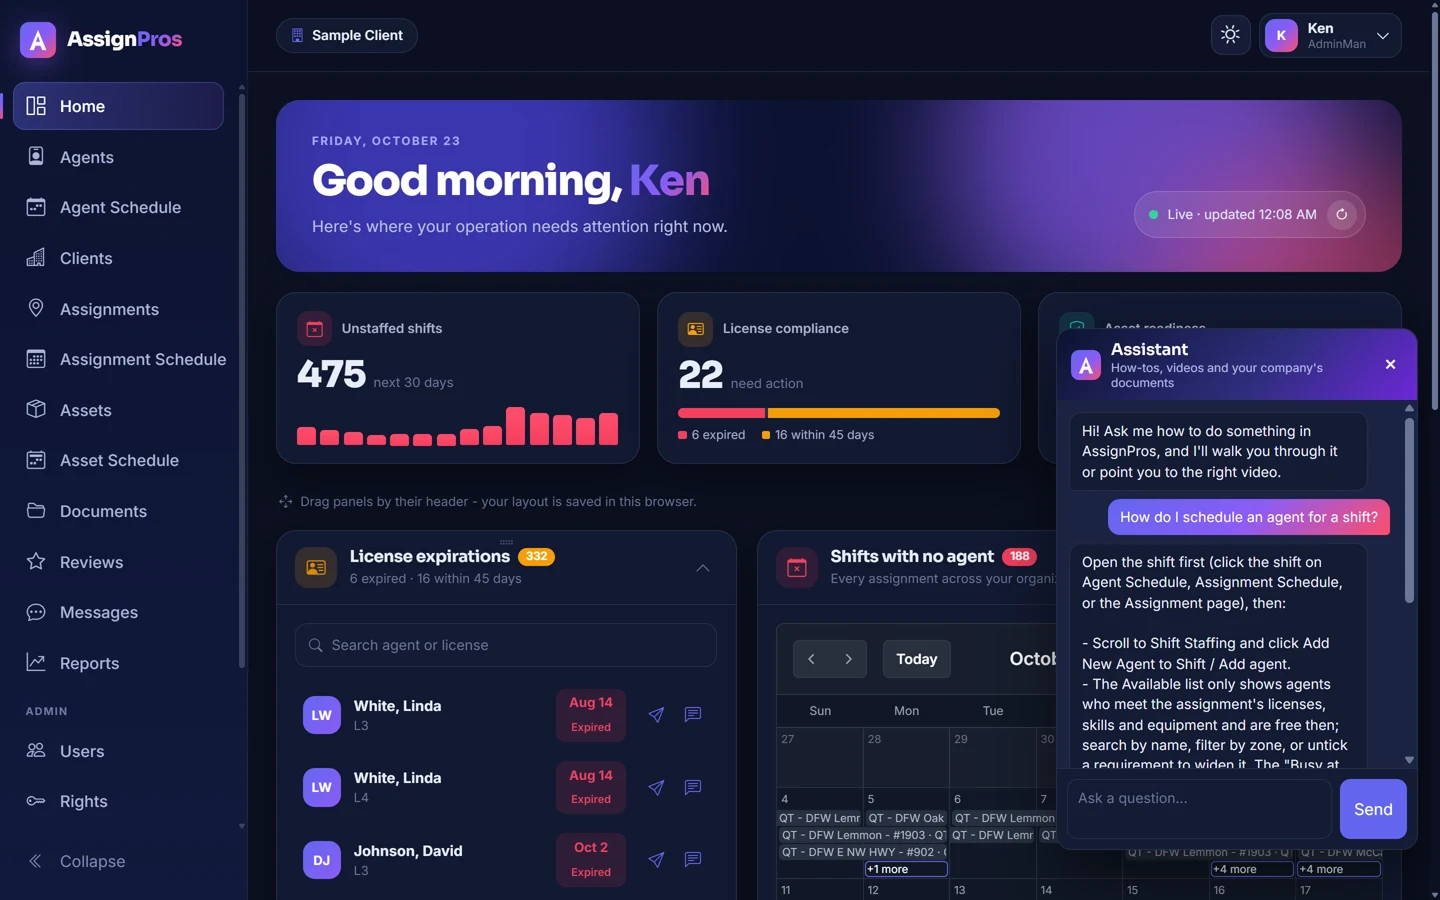
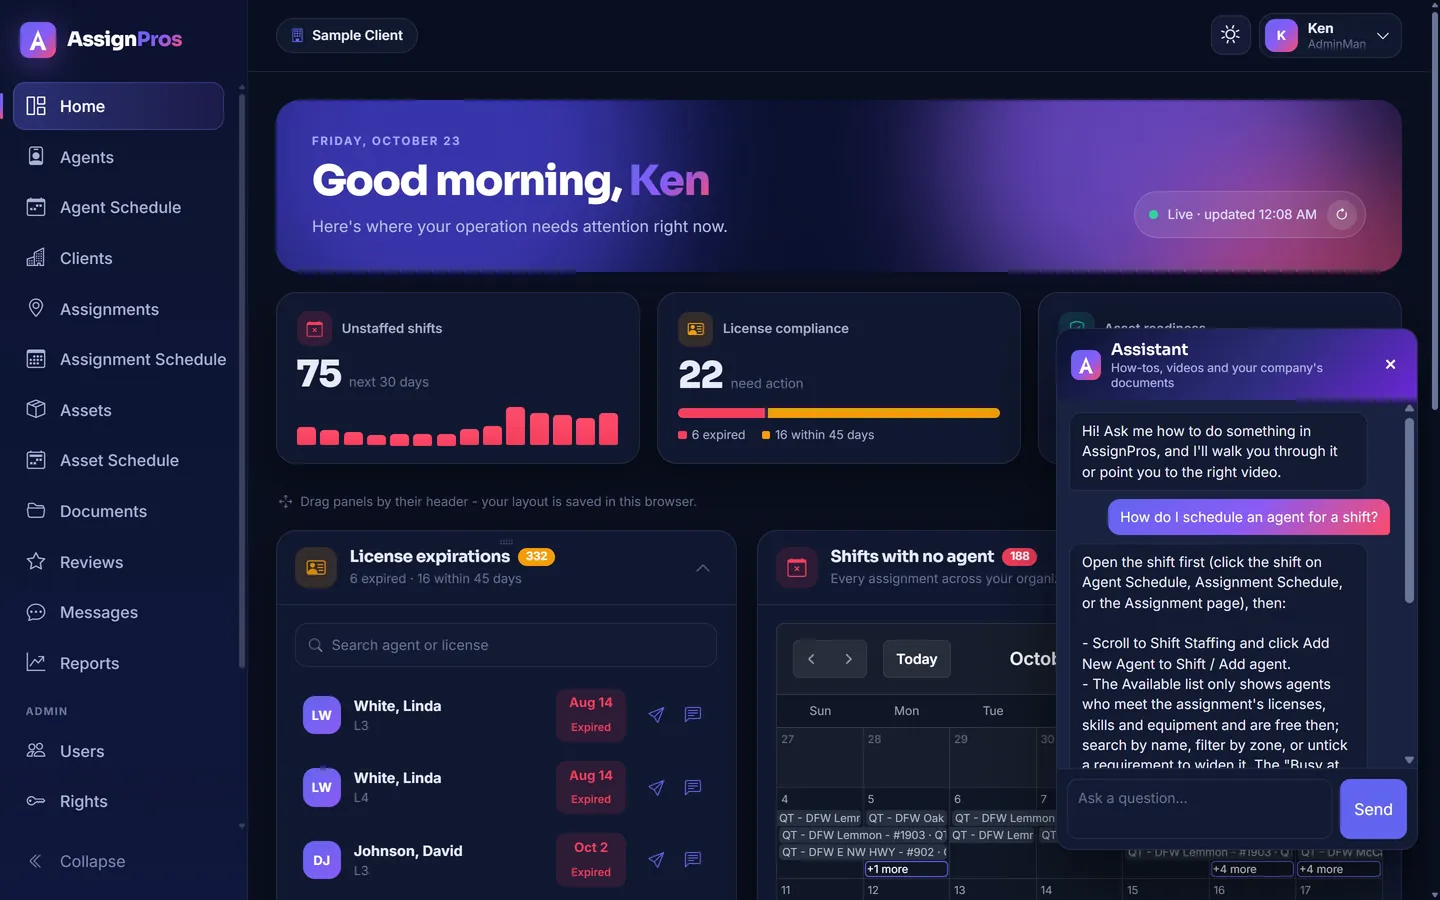
Implement Company Phone

diff --git a/src/app/site-visit.ts b/src/app/site-visit.ts
@@ -1,6 +1,11 @@
 // Site traffic: one small "page viewed" note to InternalAdmin per page, with the ad/source the visit came
-// from (attribution.ts), so Marketing Funnels > Site traffic shows visits next to leads.
-// No names, emails or IP addresses: the visitor and the visit are random IDs kept in this browser.
+// from (attribution.ts), so Marketing Funnels > Site traffic shows visits next to leads. When the visitor
+// leaves or hides a page, a second note says how long the page was actually looked at and how far down
+// they scrolled.
+// No names, emails or IP addresses are stored: the visitor, the visit and each page view are random IDs
+// kept in this browser.
+// Ken's own visits: open any page with ?me=1 once in each browser to mark it (?me=0 unmarks). Marked
+// browsers are still recorded but hidden on Site traffic by default.
 
 import { environment } from '../environments/environment';
 import { getAttribution } from './attribution';
@@ -8,6 +13,18 @@ import { getAttribution } from './attribution';
 const VISITOR_KEY = 'ap_visitor';
 const SESSION_KEY = 'ap_session';
 const REFERRER_KEY = 'ap_referrer';
+const INTERNAL_KEY = 'ap_internal';
+
+// The page being looked at now.
+interface CurrentView {
+  id: string;
+  activeMs: number;        // visible time before visibleSince
+  visibleSince: number | null;
+  maxScrollPct: number;
+}
+
+let current: CurrentView | null = null;
+let listening = false;
 
 export function trackPageView(path: string): void {
   try {
@@ -16,7 +33,12 @@ export function trackPageView(path: string): void {
       return;
     }
 
+    listen();
+    sendTime();       // the page being left
+    rememberInternal();
+
     const attribution = getAttribution();
+    const pageViewId = newId();
     const visit = {
       site: window.location.hostname.replace(/^www\./, ''),
       path: path.split('?')[0].split('#')[0] || '/',
@@ -28,8 +50,19 @@ export function trackPageView(path: string): void {
       keyword: attribution.keyword,
       landingPage: pathOf(attribution.landingPage),
       referrer: referrerHost(),
-      device: device()
+      device: device(),
+      pageViewId,
+      internal: localStorage.getItem(INTERNAL_KEY) === '1'
     };
+
+    current = {
+      id: pageViewId,
+      activeMs: 0,
+      visibleSince: document.visibilityState === 'visible' ? Date.now() : null,
+      maxScrollPct: 0
+    };
+    // A new page starts at the top; measure after it renders.
+    setTimeout(measureScroll, 1000);
 
     fetch(`${environment.apiUrl}api/sitetraffic/visit`, {
       method: 'POST',
@@ -42,13 +75,74 @@ export function trackPageView(path: string): void {
   }
 }
 
+function listen(): void {
+  if (listening) return;
+  listening = true;
+
+  document.addEventListener('visibilitychange', () => {
+    if (!current) return;
+    if (document.visibilityState === 'hidden') {
+      sendTime(); // the visitor may never come back to this tab
+    } else if (current.visibleSince === null) {
+      current.visibleSince = Date.now();
+    }
+  });
+  window.addEventListener('pagehide', () => sendTime());
+  window.addEventListener('scroll', measureScroll, { passive: true });
+}
+
+// Running total for the current page. Stops the visible clock until the page is shown again; the API keeps
+// the largest values, so sending more than once per page is fine.
+function sendTime(): void {
+  try {
+    if (!current) return;
+    if (current.visibleSince !== null) {
+      current.activeMs += Date.now() - current.visibleSince;
+      current.visibleSince = null;
+    }
+    measureScroll();
+    const body = JSON.stringify({
+      pageViewId: current.id,
+      seconds: Math.round(current.activeMs / 1000),
+      scrollPct: current.maxScrollPct
+    });
+    const url = `${environment.apiUrl}api/sitetraffic/time`;
+    // sendBeacon survives the tab closing; a plain string posts as text/plain, so no CORS preflight.
+    if (!(navigator.sendBeacon && navigator.sendBeacon(url, body))) {
+      fetch(url, { method: 'POST', body, keepalive: true }).catch(() => { /* never break the site */ });
+    }
+  } catch {
+    // never break the site
+  }
+}
+
+function measureScroll(): void {
+  if (!current) return;
+  const doc = document.documentElement;
+  const height = Math.max(doc.scrollHeight, document.body?.scrollHeight ?? 0);
+  const seen = window.scrollY + window.innerHeight;
+  const pct = height > 0 ? Math.min(100, Math.round((seen / height) * 100)) : 100;
+  if (pct > current.maxScrollPct) current.maxScrollPct = pct;
+}
+
+// ?me=1 marks this browser as Ken's, ?me=0 unmarks it.
+function rememberInternal(): void {
+  const me = new URLSearchParams(window.location.search).get('me');
+  if (me === '1') localStorage.setItem(INTERNAL_KEY, '1');
+  if (me === '0') localStorage.removeItem(INTERNAL_KEY);
+}
+
 function storedId(storage: Storage, key: string): string {
   let id = storage.getItem(key);
   if (!id) {
-    id = crypto.randomUUID ? crypto.randomUUID() : `${Date.now()}-${Math.random().toString(36).slice(2)}`;
+    id = newId();
     storage.setItem(key, id);
   }
   return id;
+}
+
+function newId(): string {
+  return crypto.randomUUID ? crypto.randomUUID() : `${Date.now()}-${Math.random().toString(36).slice(2)}`;
 }
 
 // The site the visit came from, host only, remembered from the first page of the visit.
